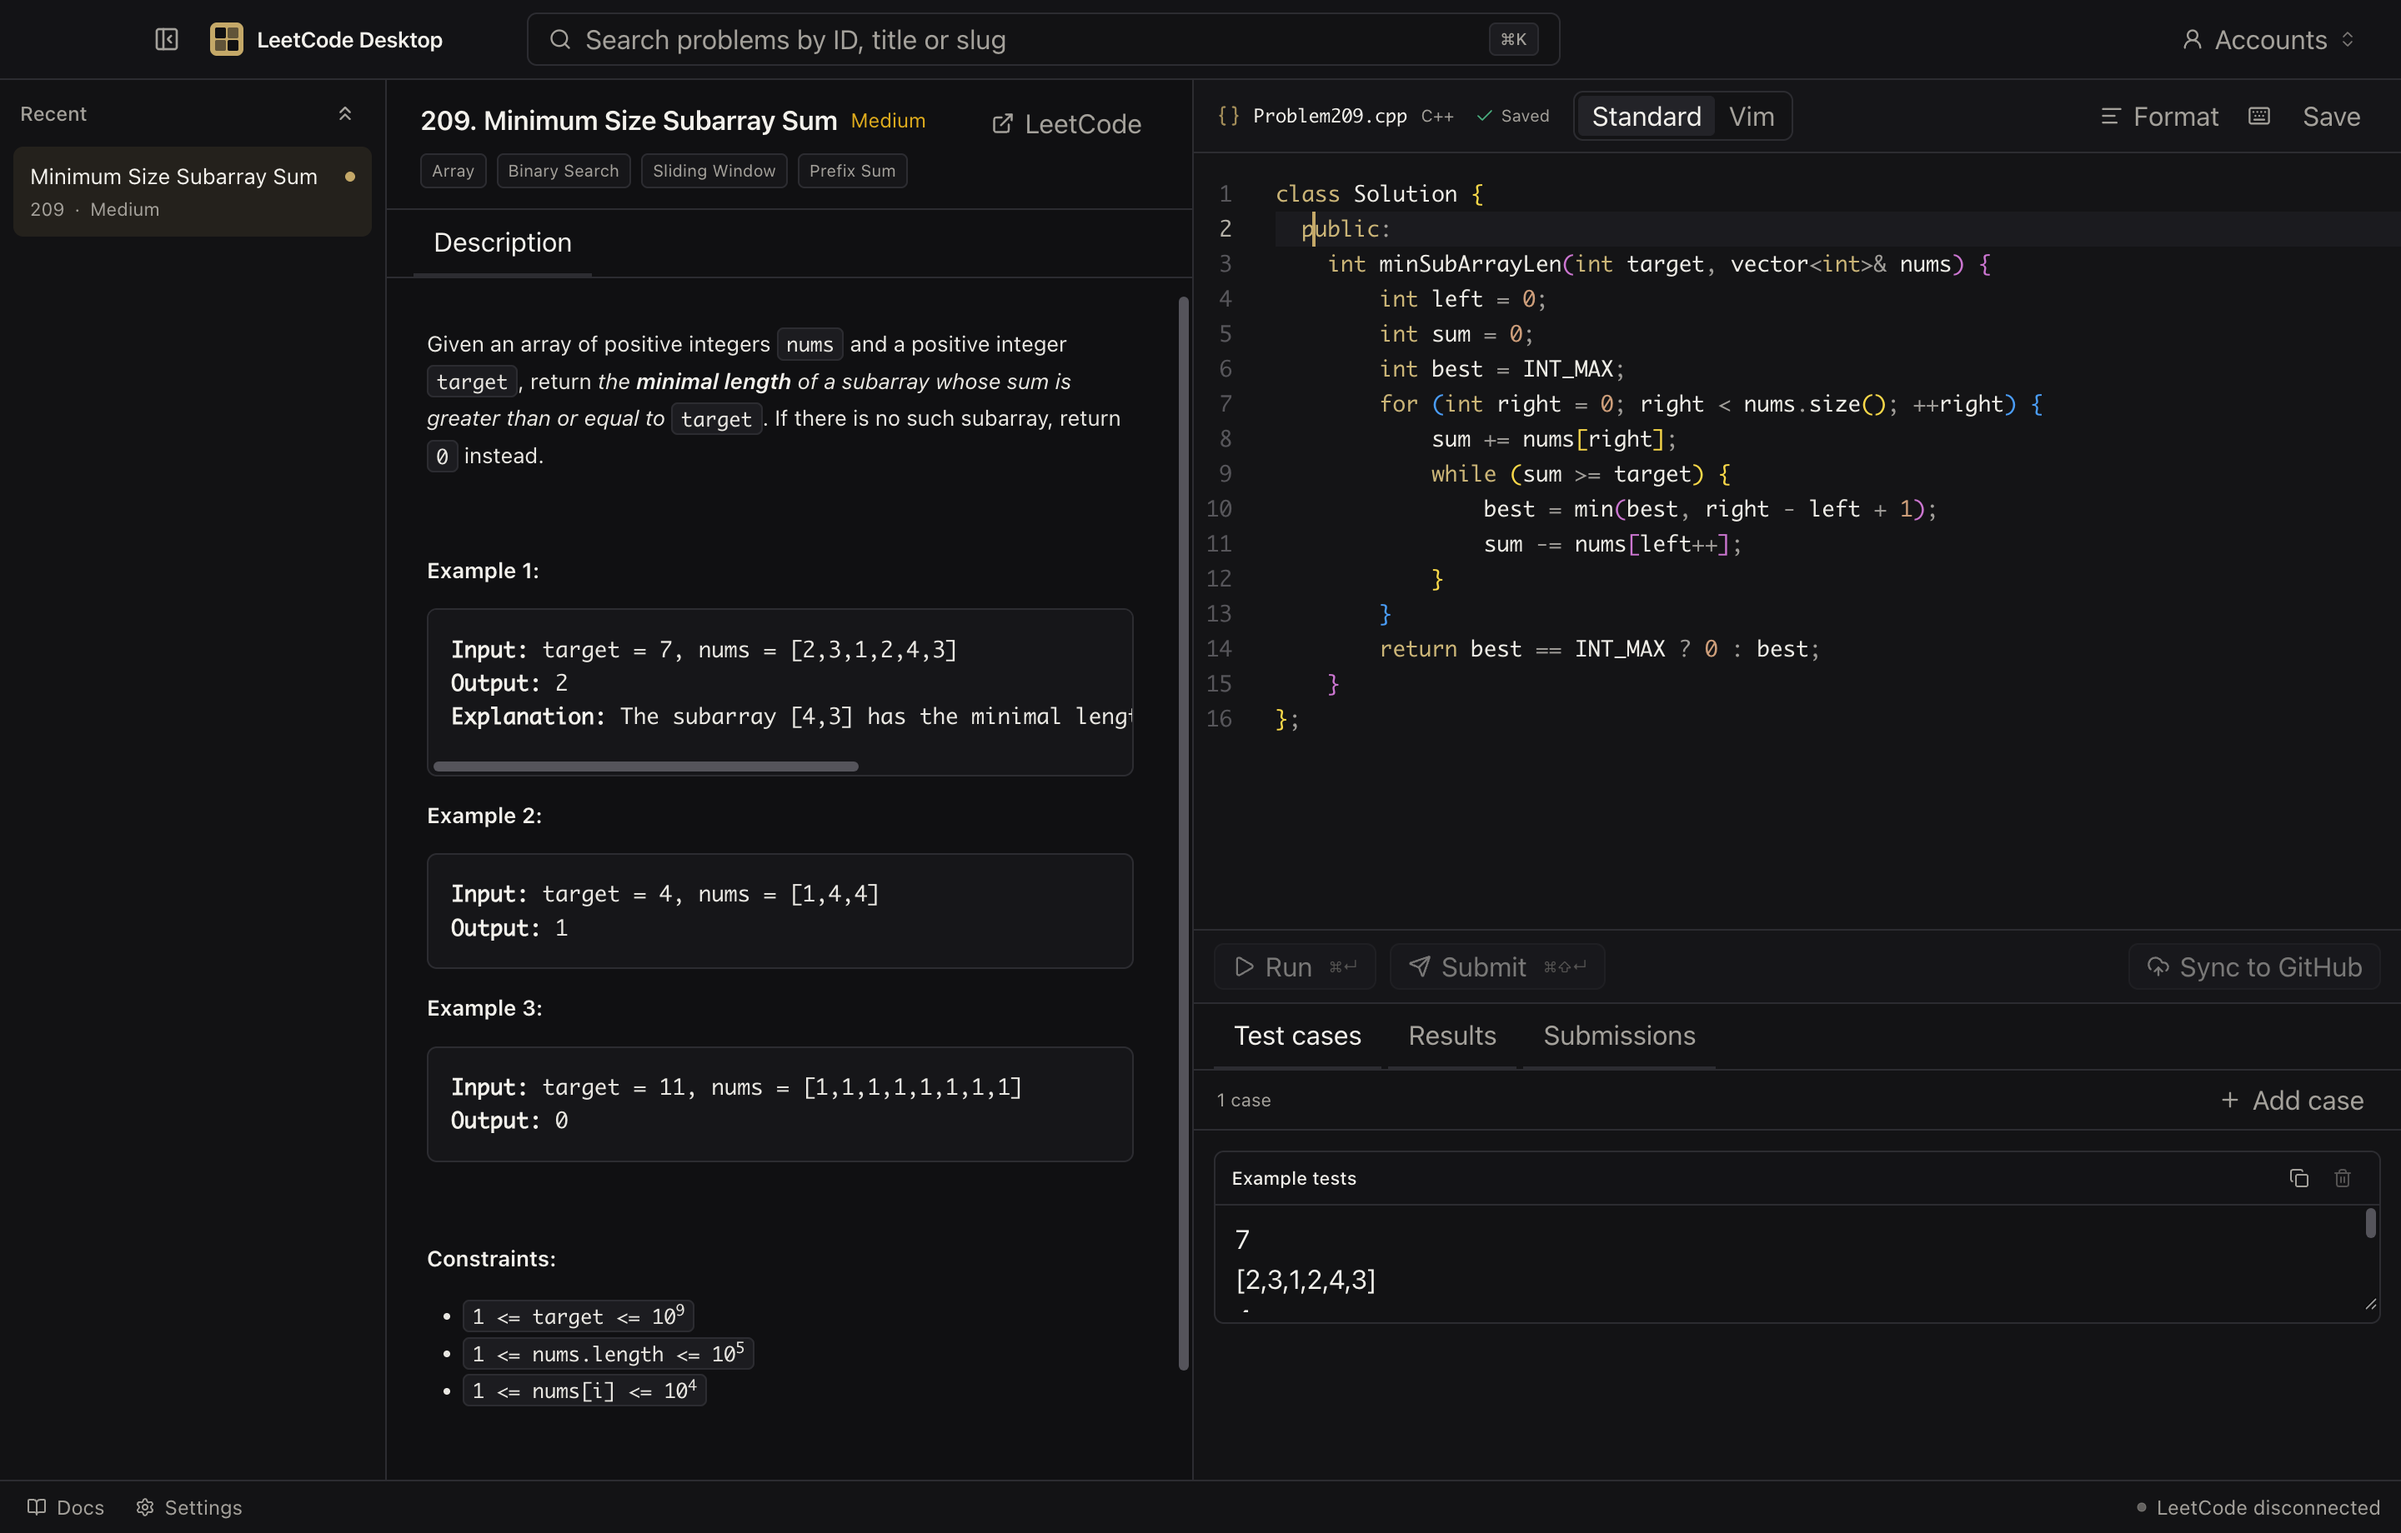
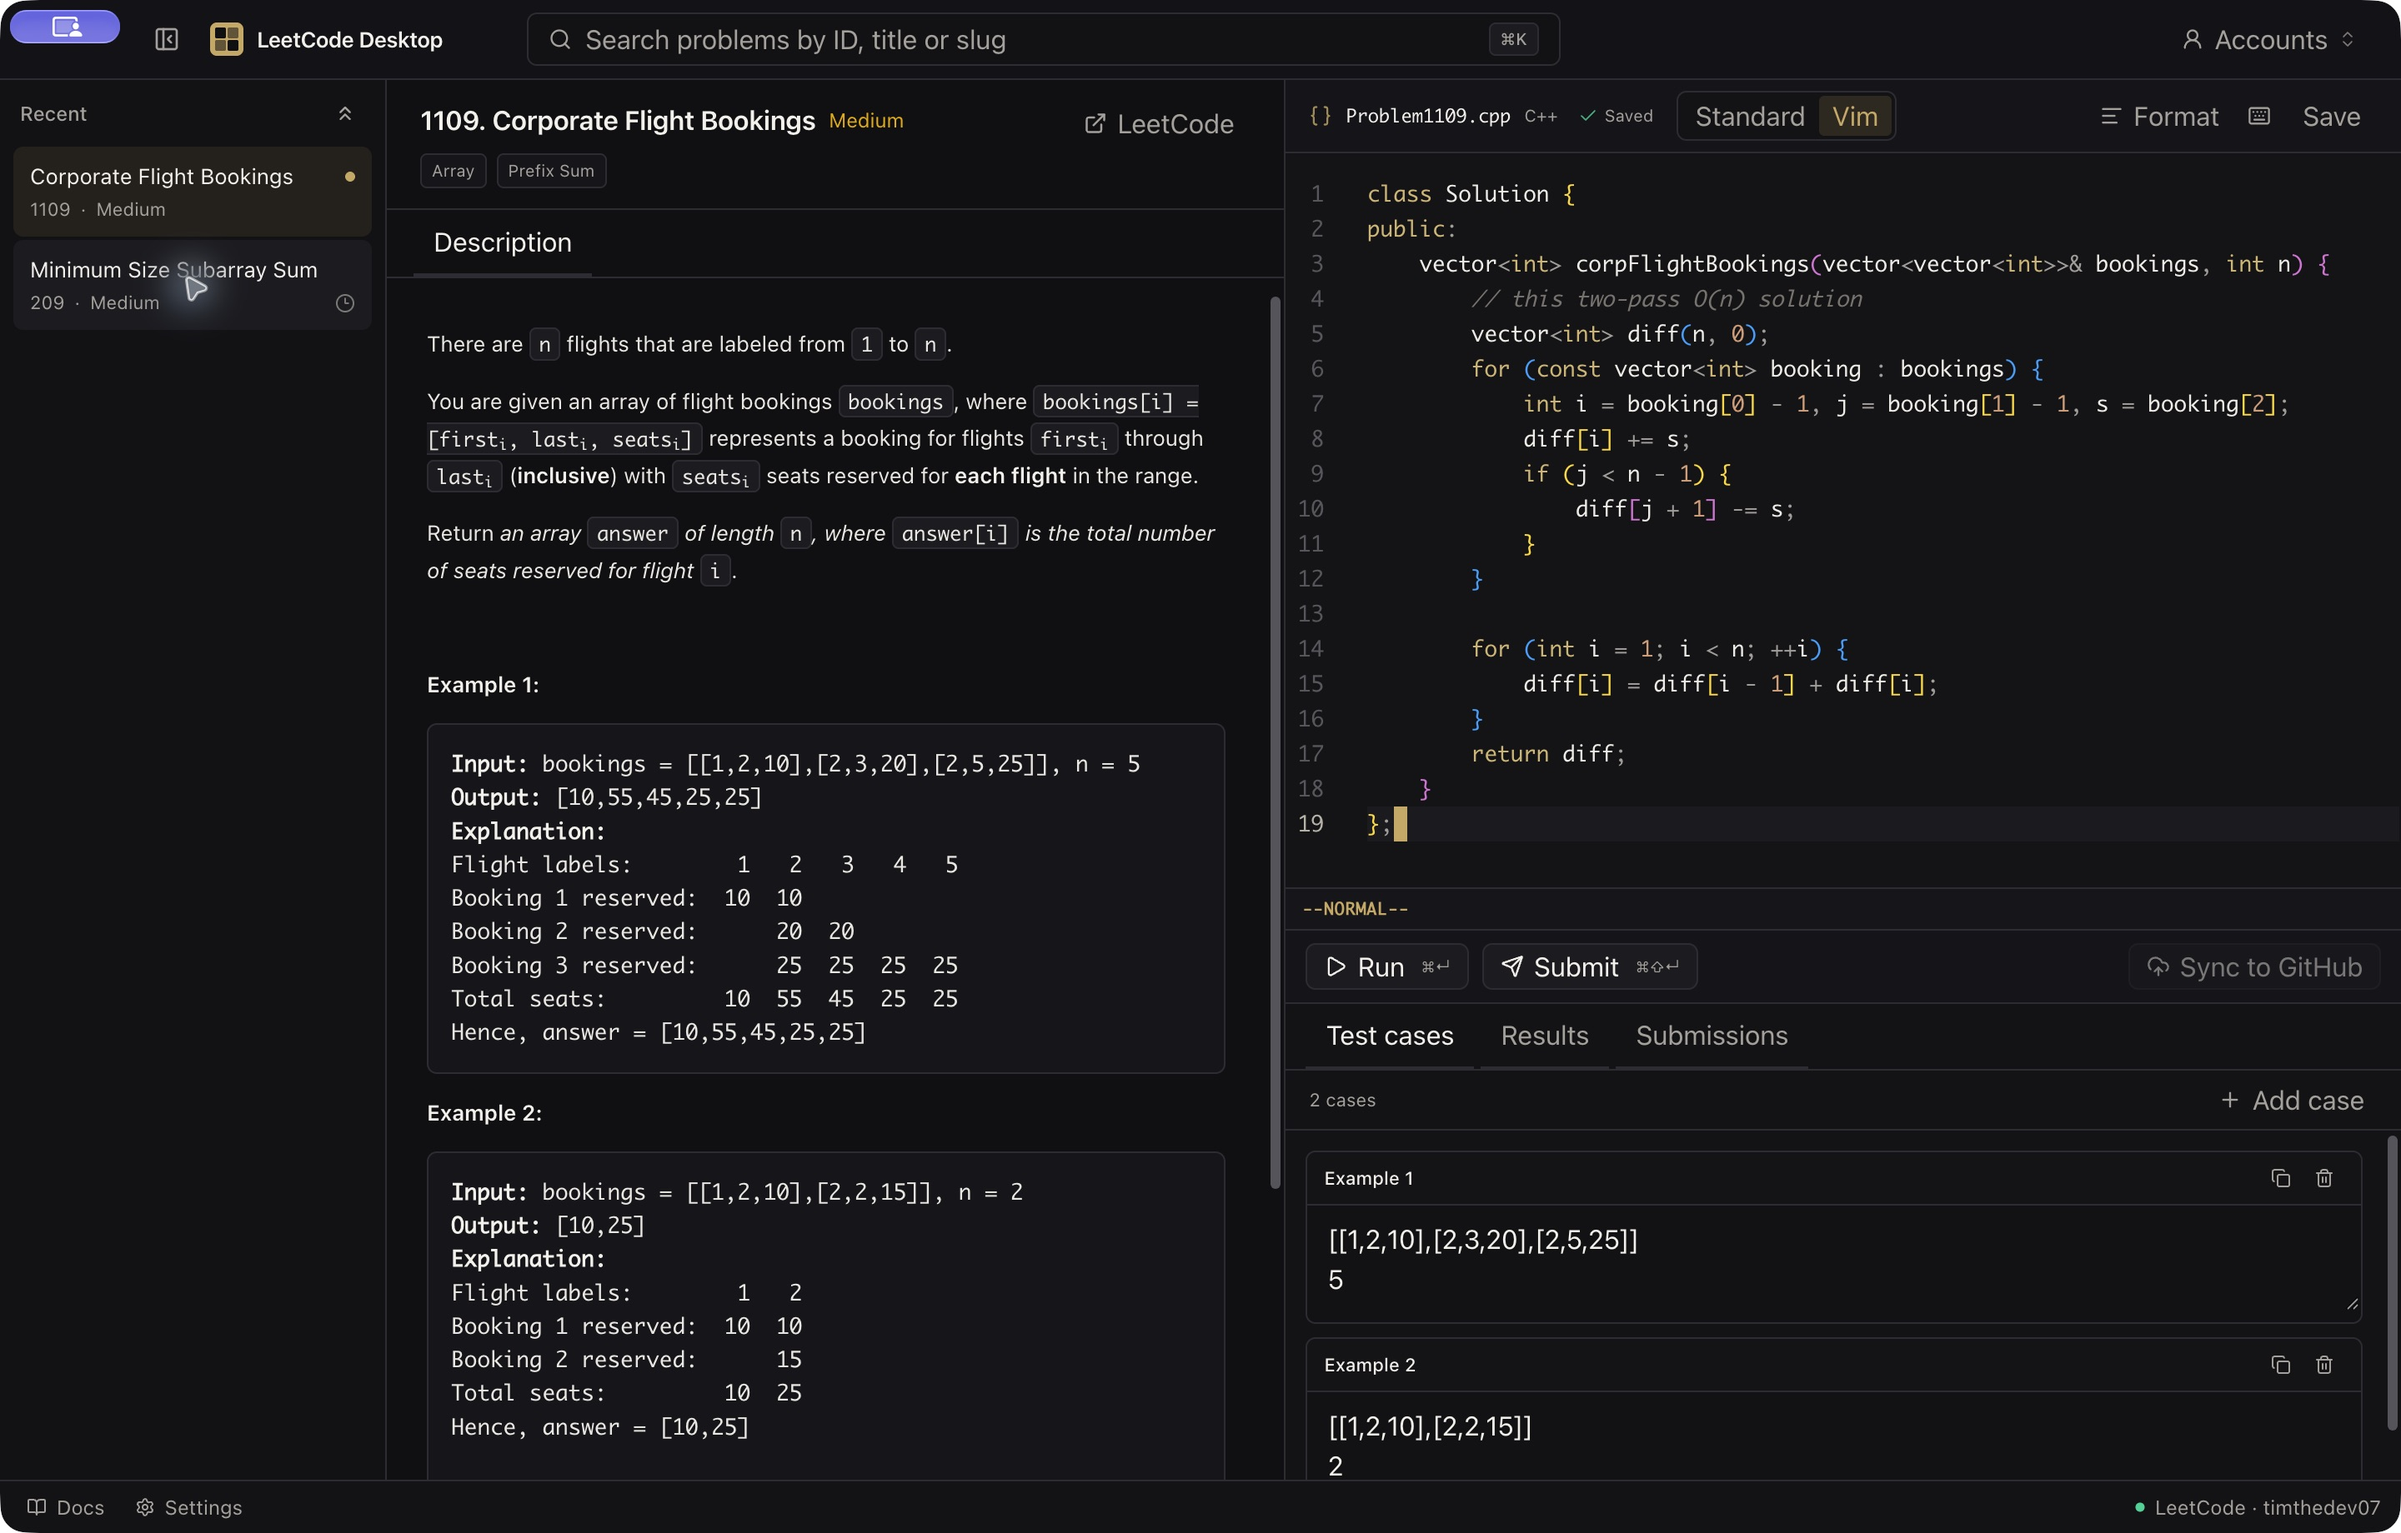
fix(examples): split problem examples into cases

diff --git a/src/main/leetcode/problems.ts b/src/main/leetcode/problems.ts
@@ -35,6 +35,17 @@ const rawCodeSnippetSchema = z.object({
   code: z.string()
 })
 
+const problemMetadataSchema = z
+  .object({
+    params: z.array(
+      z.object({
+        name: z.string(),
+        type: z.string()
+      })
+    )
+  })
+  .passthrough()
+
 const problemDetailResponseSchema = z.object({
   question: z
     .object({
@@ -48,7 +59,8 @@ const problemDetailResponseSchema = z.object({
       topicTags: z.array(rawTopicTagSchema).nullable().optional(),
       hints: z.array(z.string()).nullable().optional(),
       codeSnippets: z.array(rawCodeSnippetSchema).nullable().optional(),
-      exampleTestcases: z.string().nullable().optional()
+      exampleTestcases: z.string().nullable().optional(),
+      metaData: z.string().nullable().optional()
     })
     .nullable()
 })
@@ -134,6 +146,8 @@ export class LeetCodeProblemsService {
     const difficulty = parseDifficulty(question.difficulty)
     const starterCode = question.codeSnippets?.find((snippet) => snippet.langSlug === 'cpp')?.code ?? ''
     const topicTags = (question.topicTags ?? []).map(normaliseTopicTag)
+    const metadata = parseProblemMetadata(question.metaData)
+    const parameterCount = metadata?.params.length ?? 0
 
     const problem = problemDetailSchema.parse({
       internalId: question.questionId,
@@ -146,7 +160,10 @@ export class LeetCodeProblemsService {
       topicTags,
       hints: (question.hints ?? []).map(sanitiseProblemHtml),
       starterCode,
-      exampleTestcases: question.exampleTestcases ?? ''
+      exampleTestCases: splitExampleTestCases(
+        question.exampleTestcases ?? '',
+        parameterCount
+      )
     })
     this.cacheDetail(titleSlug, problem)
     return problem
@@ -164,6 +181,39 @@ export class LeetCodeProblemsService {
       expiresAtMs: this.now() + this.cacheTtlMs,
       value: problem
     })
+  }
+}
+
+export function splitExampleTestCases(input: string, parameterCount: number): string[] {
+  const trimmed = input.trim()
+  if (!trimmed) return []
+
+  const lines = trimmed.split(/\r?\n/)
+  if (
+    parameterCount < 1 ||
+    lines.length <= parameterCount ||
+    lines.length % parameterCount !== 0
+  ) {
+    return [trimmed]
+  }
+
+  const cases: string[] = []
+  for (let index = 0; index < lines.length; index += parameterCount) {
+    cases.push(lines.slice(index, index + parameterCount).join('\n'))
+  }
+  return cases
+}
+
+function parseProblemMetadata(value: string | null | undefined): z.infer<
+  typeof problemMetadataSchema
+> | null {
+  if (!value) return null
+  try {
+    const result = problemMetadataSchema.safeParse(JSON.parse(value) as unknown)
+    return result.success ? result.data : null
+  } catch (error) {
+    if (error instanceof SyntaxError) return null
+    throw error
   }
 }
 

diff --git a/tests/unit/leetcode-problems.test.ts b/tests/unit/leetcode-problems.test.ts
@@ -5,7 +5,8 @@ import type { ProblemSummary } from '@shared/types'
 import {
   LeetCodeProblemsService,
   rankProblem,
-  sanitiseProblemHtml
+  sanitiseProblemHtml,
+  splitExampleTestCases
 } from '../../src/main/leetcode/problems'
 
 async function fixture(name: string): Promise<unknown> {
@@ -64,6 +65,22 @@ describe('LeetCode problem discovery', () => {
     expect(problem.contentHtml).toContain('Constraints')
     expect(problem.contentHtml).not.toContain('<script')
     expect(problem.contentHtml).not.toContain('javascript:')
+    expect(problem.exampleTestCases).toEqual([
+      '7\n[2,3,1,2,4,3]',
+      '4\n[1,4,4]',
+      '11\n[1,1,1,1,1,1,1,1]'
+    ])
+  })
+
+  it('splits line-delimited examples by signature and preserves uncertain input', () => {
+    expect(splitExampleTestCases('7\n[2,3,1]\n4\n[1,4]', 2)).toEqual([
+      '7\n[2,3,1]',
+      '4\n[1,4]'
+    ])
+    expect(splitExampleTestCases('7\n[2,3,1]\n4', 2)).toEqual([
+      '7\n[2,3,1]\n4'
+    ])
+    expect(splitExampleTestCases('   ', 2)).toEqual([])
   })
 
   it('defuses inline handlers and non-HTTPS links', () => {

diff --git a/src/renderer/src/components/problem-workspace.tsx b/src/renderer/src/components/problem-workspace.tsx
@@ -140,13 +140,16 @@ function LoadedWorkspace({
   const statementRef = useRef<HTMLElement>(null)
   const panelRef = useRef<HTMLDivElement>(null)
   const [editorReady, setEditorReady] = useState(false)
-  const [testCases, setTestCases] = useState<TestCaseDraft[]>([
-    {
+  const [testCases, setTestCases] = useState<TestCaseDraft[]>(() => {
+    const inputs =
+      problem.exampleTestCases.length > 0 ? problem.exampleTestCases : ['']
+    return inputs.map((input, index) => ({
       id: window.crypto.randomUUID(),
-      input: problem.exampleTestcases,
-      label: 'Example tests'
-    }
-  ])
+      input,
+      label:
+        inputs.length === 1 ? 'Example tests' : `Example ${index + 1}`
+    }))
+  })
   const testInput = testCases.map((testCase) => testCase.input).join('\n')
   const [executionTab, setExecutionTab] = useState<ExecutionTab>('tests')
   const [judgeResult, setJudgeResult] = useState<JudgeResult | null>(null)

diff --git a/tests/e2e/packaged.spec.ts b/tests/e2e/packaged.spec.ts
@@ -60,6 +60,16 @@ test('the packaged editor supports Vim and offline C++ formatting', async () => 
     await result.waitFor({ timeout: 20_000 })
     await result.click()
     await page.locator('.monaco-editor').first().waitFor({ timeout: 30_000 })
+    await expect(page.getByText('3 cases', { exact: true })).toBeVisible()
+    await expect(page.getByLabel('Example 1 input')).toHaveValue(
+      '7\n[2,3,1,2,4,3]'
+    )
+    await expect(page.getByLabel('Example 2 input')).toHaveValue(
+      '4\n[1,4,4]'
+    )
+    await expect(page.getByLabel('Example 3 input')).toHaveValue(
+      '11\n[1,1,1,1,1,1,1,1]'
+    )
 
     await page.getByRole('button', { name: 'Vim', exact: true }).click()
     await expect(page.locator('.vim-statusbar')).toContainText('NORMAL')

diff --git a/tests/unit/storage.test.ts b/tests/unit/storage.test.ts
@@ -35,7 +35,7 @@ function problemDetail(overrides: Partial<ProblemDetail> = {}): ProblemDetail {
     contentHtml: '<p>Find the minimum length.</p>',
     hints: [],
     starterCode: 'class Solution {};',
-    exampleTestcases: '7\n[2,3,1,2,4,3]',
+    exampleTestCases: ['7\n[2,3,1,2,4,3]'],
     ...overrides
   }
 }

diff --git a/src/shared/schemas.ts b/src/shared/schemas.ts
@@ -34,7 +34,7 @@ export const problemDetailSchema = problemSummarySchema.extend({
   contentHtml: z.string(),
   hints: z.array(z.string()),
   starterCode: z.string(),
-  exampleTestcases: z.string()
+  exampleTestCases: z.array(z.string())
 })
 
 const editorPositionSchema = z.object({

diff --git a/src/shared/types.ts b/src/shared/types.ts
@@ -45,7 +45,7 @@ export type ProblemDetail = ProblemSummary & {
   contentHtml: string
   hints: string[]
   starterCode: string
-  exampleTestcases: string
+  exampleTestCases: string[]
 }
 
 export type EditorPosition = {

diff --git a/src/main/leetcode/queries.ts b/src/main/leetcode/queries.ts
@@ -48,6 +48,7 @@ export const QUESTION_DETAIL_DOCUMENT = `
         code
       }
       exampleTestcases
+      metaData
     }
   }
 `
